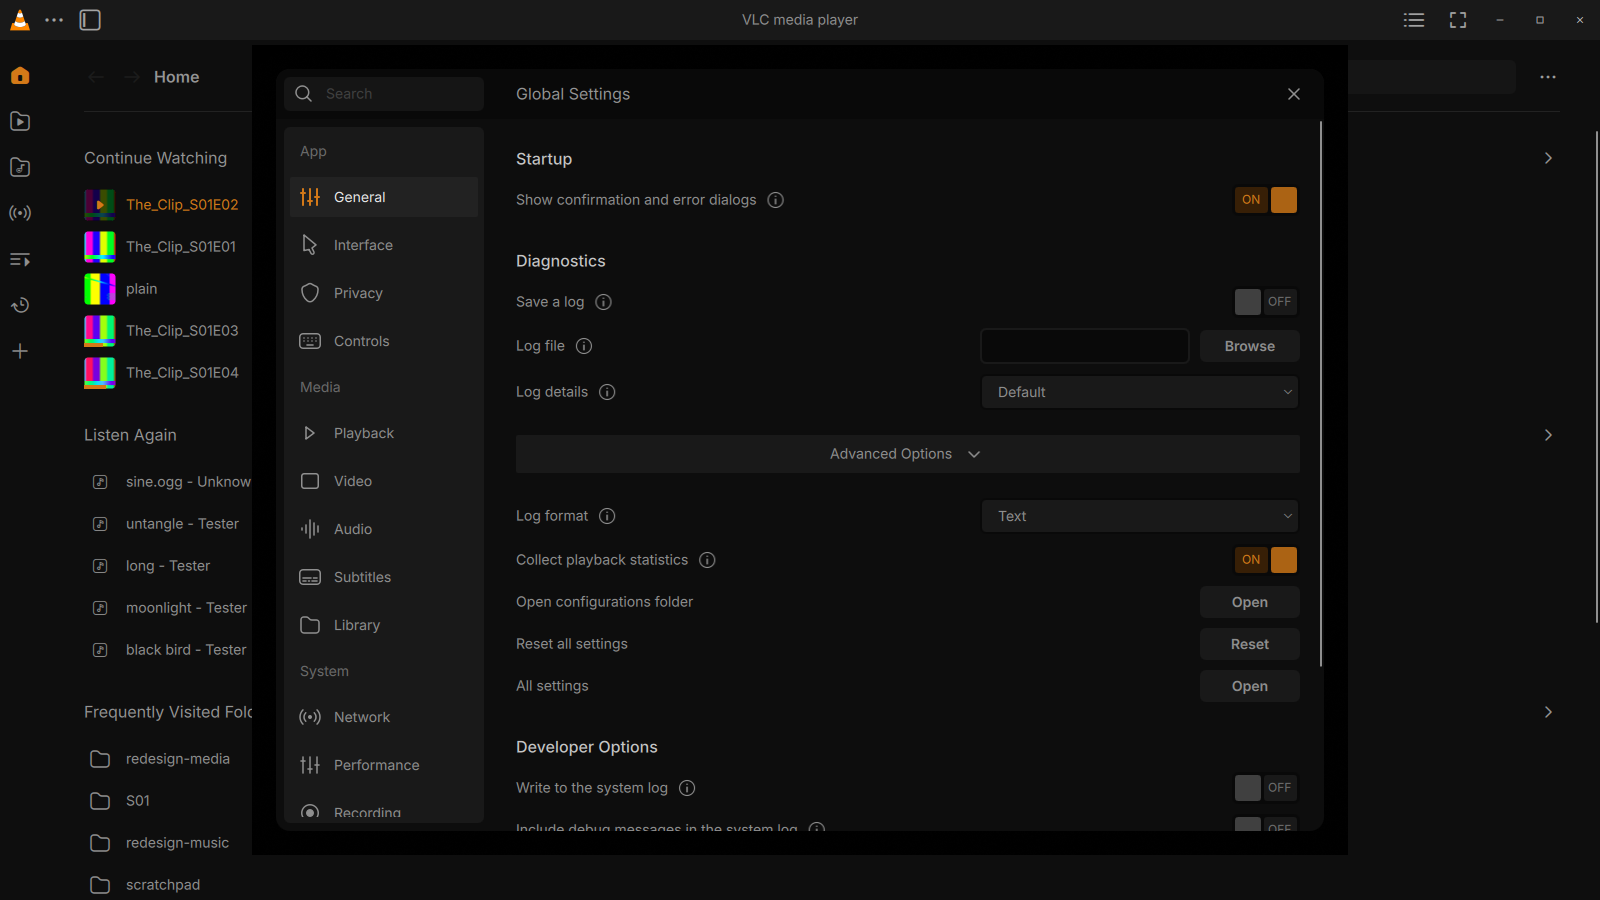
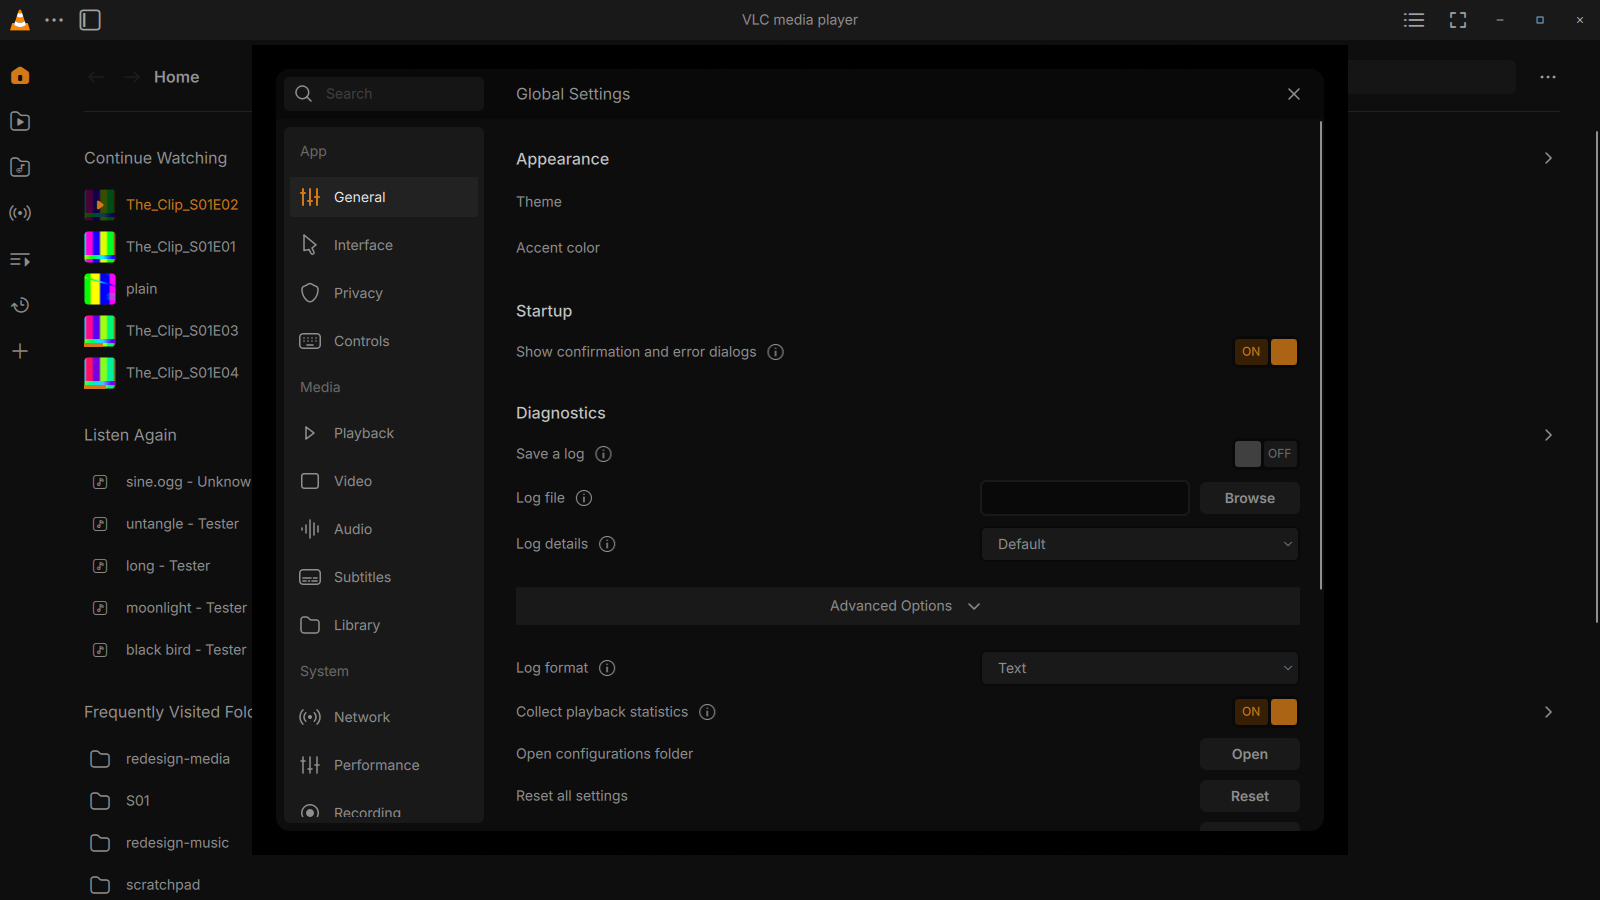
qt: settings rows: pinned custom-row files (Theme/Accent placeholders), data-driven section visibility, one Advanced flag

diff --git a/modules/gui/qt/dialogs/settings/qml/SettingsData.js b/modules/gui/qt/dialogs/settings/qml/SettingsData.js
@@ -21,8 +21,10 @@
 // base name of pixmaps/redesign/settings/<icon>[-active].svg, `group` a key ("App" | "Media" | "System") that the
 // sidebar translates.
 //
-// `sections`: [{ title, adv, rows }]. A section with `adv: true` sits under the Advanced Options bar, after the
-// page's other Advanced rows (with its title, if it has one); every row in it counts as `adv`.
+// `sections`: [{ title, adv, rows }]. Rows carry the Advanced flag: a row is Advanced iff it has `adv: true`
+// (search and the Advanced split read only that). A section's `adv: true` only places it under the Advanced Options
+// bar, as a block (with its title, if any) after the Advanced rows of the page's other sections; every row in such
+// a section must still say `adv: true`.
 //
 // A row (SettingsRowDelegate draws it):
 //   label        the row text
@@ -43,8 +45,10 @@
 //   save         browseFile picks a file to write (a save dialog)
 //   action       button id: openConfig | resetAll | legacyPrefs | editHotkeys | resetHotkeys | clearHistory
 //   buttonText   the button's text
-//   component    a custom row: a file name under dialogs/settings/qml/rows/ (served next to this file); it gets
-//                `row` and `style` and draws the whole row. Nothing is drawn until the file exists.
+//   component    a custom row: the file name (with .qml) of a file in dialogs/settings/qml/rows/, e.g. "ThemeRow.qml".
+//                The VLC.Dialogs module serves its files flat (qrc:/qt/qml/VLC/Dialogs/<name>), so the delegate
+//                loads it by that name. See SettingsRowDelegate for the component's properties. A name with no file
+//                draws nothing and logs nothing.
 //   keywords     extra search text, for custom rows
 var pages = [
     { name: "general", label: qsTr("General"), title: qsTr("Global Settings"), icon: "general", group: "App", sections: [
@@ -67,10 +71,10 @@ var pages = [
             { label: qsTr("All settings"), kind: "button", action: "legacyPrefs", buttonText: qsTr("Open"), adv: true }
         ] },
         { title: qsTr("Developer Options"), adv: true, rows: [
-            { label: qsTr("Write to the system log"), kind: "toggle", option: "syslog" },
-            { label: qsTr("Include debug messages in the system log"), kind: "toggle", option: "syslog-debug" },
-            { label: qsTr("System log identity"), kind: "field", option: "syslog-ident" },
-            { label: qsTr("System log facility"), kind: "dropdown", option: "syslog-facility" }
+            { label: qsTr("Write to the system log"), kind: "toggle", adv: true, option: "syslog" },
+            { label: qsTr("Include debug messages in the system log"), kind: "toggle", adv: true, option: "syslog-debug" },
+            { label: qsTr("System log identity"), kind: "field", adv: true, option: "syslog-ident" },
+            { label: qsTr("System log facility"), kind: "dropdown", adv: true, option: "syslog-facility" }
         ] }
     ] },
     { name: "interface", label: qsTr("Interface"), title: qsTr("Interface Settings"), icon: "interface", group: "App", sections: [
@@ -102,17 +106,17 @@ var pages = [
             { label: qsTr("Show the playlist as a tree"), kind: "toggle", option: "playlist-tree" }
         ] },
         { title: "", adv: true, rows: [
-            { label: qsTr("Window opacity"), kind: "slider", option: "qt-opacity", min: 10, max: 100, step: 10, scale: 0.01,
+            { label: qsTr("Window opacity"), kind: "slider", adv: true, option: "qt-opacity", min: 10, max: 100, step: 10, scale: 0.01,
               ticks: [ qsTr("10%"), qsTr("100%") ] },
-            { label: qsTr("Pause video when window is minimized"), kind: "toggle", option: "qt-pause-minimized" },
-            { label: qsTr("Bring VLC to the front when playback starts"), kind: "dropdown", option: "qt-auto-raise" },
-            { label: qsTr("Show cover art in the window when playing audio"), kind: "toggle", option: "qt-bgcone" },
-            { label: qsTr("Show the file browser inside the open dialog"), kind: "toggle", option: "qt-embedded-open" },
-            { label: qsTr("Allow the app icon to change"), kind: "toggle", option: "qt-icon-change" },
-            { label: qsTr("Fullscreen controls opacity"), kind: "slider", option: "qt-fs-opacity", min: 10, max: 100, step: 10, scale: 0.01,
+            { label: qsTr("Pause video when window is minimized"), kind: "toggle", adv: true, option: "qt-pause-minimized" },
+            { label: qsTr("Bring VLC to the front when playback starts"), kind: "dropdown", adv: true, option: "qt-auto-raise" },
+            { label: qsTr("Show cover art in the window when playing audio"), kind: "toggle", adv: true, option: "qt-bgcone" },
+            { label: qsTr("Show the file browser inside the open dialog"), kind: "toggle", adv: true, option: "qt-embedded-open" },
+            { label: qsTr("Allow the app icon to change"), kind: "toggle", adv: true, option: "qt-icon-change" },
+            { label: qsTr("Fullscreen controls opacity"), kind: "slider", adv: true, option: "qt-fs-opacity", min: 10, max: 100, step: 10, scale: 0.01,
               ticks: [ qsTr("10%"), qsTr("100%") ] },
             // three stops in px from the bottom edge (my call)
-            { label: qsTr("Fullscreen controls sensitivity"), kind: "slider", option: "qt-fs-sensitivity",
+            { label: qsTr("Fullscreen controls sensitivity"), kind: "slider", adv: true, option: "qt-fs-sensitivity",
               choices: [ { value: 30, label: qsTr("Low") }, { value: 90, label: qsTr("Medium") }, { value: 300, label: qsTr("High") } ] }
         ] }
     ] },
@@ -177,3 +181,12 @@ var pages = [
     { name: "recording", label: qsTr("Recording"), title: qsTr("Recording, Casting & Streaming Out"), icon: "recording", group: "System", sections: [] },
     { name: "extensions", label: qsTr("Extensions"), title: qsTr("Add-ons & Scripts"), icon: "extensions", group: "System", sections: [] }
 ]
+
+// Whether a row can show in this build: its option, list and required option all exist. `bridge` is the
+// SettingsBridge singleton (a .pragma library can't see it). A custom row also needs its component file, which
+// only the delegate can tell (its `shown`).
+function rowShown(row, bridge) {
+    return (!row.option || bridge.exists(row.option))
+        && (!row.list || bridge.exists(row.list))
+        && (!row.requires || bridge.exists(row.requires))
+}

diff --git a/modules/gui/qt/dialogs/settings/qml/SettingsWindowPage.qml b/modules/gui/qt/dialogs/settings/qml/SettingsWindowPage.qml
@@ -23,6 +23,8 @@ import VLC.Widgets as Widgets
 import VLC.Player
 import VLC.Dialogs
 
+import "SettingsData.js" as SettingsData
+
 // One settings page from SettingsData.js (not SettingsPage: VLC.Player has one, and PlaybackPanel imports both modules): its sections, then the Advanced Options bar and the Advanced rows (the
 // page's `adv` rows as one untitled block, then its `adv` sections). The instance lives for the session and follows
 // `page`; the bar's state is kept per page.
@@ -35,12 +37,17 @@ Flickable {
     property int _tick: 0
     property var _openByPage: ({})
 
-    // [{title, rows}] for the main part and for the Advanced part
+    // [{title, rows}] for the main part and for the Advanced part. A row is Advanced iff `row.adv`; an `adv` section
+    // is a block under the bar.
     readonly property var _main: page.sections.filter((s) => !s.adv)
         .map((s) => ({ title: s.title, rows: s.rows.filter((r) => !r.adv) }))
     readonly property var _adv: [{ title: "", rows: [].concat(...page.sections.filter((s) => !s.adv)
                                                              .map((s) => s.rows.filter((r) => r.adv))) }]
-        .concat(page.sections.filter((s) => s.adv))
+        .concat(page.sections.filter((s) => s.adv).map((s) => ({ title: s.title, rows: s.rows.filter((r) => r.adv) })))
+    readonly property bool _hasAdv: _adv.some(_anyShown)
+
+    // from the data, not the delegates: right on every page, whatever was instantiated
+    function _anyShown(block) { return block.rows.some((r) => SettingsData.rowShown(r, SettingsBridge)) }
 
     readonly property ColorContext colorContext: ColorContext {
         id: theme
@@ -70,16 +77,8 @@ Flickable {
         id: block
 
         required property var modelData
-        readonly property bool anyShown: {
-            void(rows.count)
-            for (let i = 0; i < rows.count; ++i)
-                if (rows.itemAt(i)?.shown)
-                    return true
-            return false
-        }
-
         width: column.width
-        visible: anyShown
+        visible: root._anyShown(modelData)
 
         Widgets.LabelExt {
             visible: text.length > 0
@@ -120,13 +119,7 @@ Flickable {
             id: bar
 
             width: parent.width
-            visible: {
-                void(advRepeater.count)
-                for (let i = 0; i < advRepeater.count; ++i)
-                    if (advRepeater.itemAt(i)?.anyShown)
-                        return true
-                return false
-            }
+            visible: root._hasAdv
             open: root.advancedOpen
             onClicked: root.advancedOpen = !root.advancedOpen
         }
@@ -137,7 +130,6 @@ Flickable {
             spacing: VLCStyle.dp(20, VLCStyle.scale)
 
             Repeater {
-                id: advRepeater
                 model: root._adv
                 Block { }
             }

diff --git a/modules/gui/qt/dialogs/settings/qml/SettingsRowDelegate.qml b/modules/gui/qt/dialogs/settings/qml/SettingsRowDelegate.qml
@@ -24,6 +24,8 @@ import VLC.Widgets as Widgets
 import VLC.Player
 import VLC.Dialogs
 
+import "SettingsData.js" as SettingsData
+
 // One settings row from SettingsData.js (see the schema there): the label and its info glyph on the left, the
 // control in a 320 px column on the right. Reads its option again whenever SettingsBridge.revision or reloadTick
 // changes; writes on every change (fields on editingFinished: Enter, focus loss, the window closing).
@@ -35,10 +37,7 @@ FocusScope {
     property int reloadTick: 0
 
     readonly property int rev: SettingsBridge.revision + reloadTick
-    readonly property bool shown: (!row.option || SettingsBridge.exists(row.option))
-                                  && (!row.list || SettingsBridge.exists(row.list))
-                                  && (!row.requires || SettingsBridge.exists(row.requires))
-                                  && (row.kind !== "custom" || _custom !== null)
+    readonly property bool shown: SettingsData.rowShown(row, SettingsBridge) && (row.kind !== "custom" || _custom !== null)
     // the option's current value (undefined for rows without one)
     readonly property var value: {
         void(rev)
@@ -69,7 +68,11 @@ FocusScope {
         return !!SettingsBridge.value(row.enabledBy)
     }
 
-    // a missing file only means the custom row isn't written yet: no warning
+    // A custom row (`component: "ThemeRow.qml"`, a file in rows/, served flat next to this file) declares
+    // `required property var row`; optionally `property Item delegate` (set to this delegate: rev, value, style,
+    // choiceList) and `readonly property bool fullRow: true` (it draws the whole row, label included, instead of
+    // the 320 px control column). Its implicitHeight sets the row's. A missing file only means the custom row isn't
+    // written yet: the row hides, with no warning.
     function _component(file) {
         const c = Qt.createComponent(file)
         return c.status === Component.Ready ? c : null

diff --git a/modules/gui/qt/dialogs/settings/qml/rows/AccentRow.qml b/modules/gui/qt/dialogs/settings/qml/rows/AccentRow.qml
@@ -1,0 +1,37 @@
+/*****************************************************************************
+ * Copyright (C) 2026 VLC authors and VideoLAN
+ *
+ * This program is free software; you can redistribute it and/or modify
+ * it under the terms of the GNU General Public License as published by
+ * the Free Software Foundation; either version 2 of the License, or
+ * ( at your option ) any later version.
+ *
+ * This program is distributed in the hope that it will be useful,
+ * but WITHOUT ANY WARRANTY; without even the implied warranty of
+ * MERCHANTABILITY or FITNESS FOR A PARTICULAR PURPOSE. See the
+ * GNU General Public License for more details.
+ *
+ * You should have received a copy of the GNU General Public License
+ * along with this program; if not, write to the Free Software
+ * Foundation, Inc., 51 Franklin Street, Fifth Floor, Boston MA 02110-1301, USA.
+ *****************************************************************************/
+import QtQuick
+
+import VLC.Style
+import VLC.Widgets as Widgets
+
+// Placeholder for General's Accent row: the label only, until Task 6 builds its control.
+Item {
+    required property var row
+    property Item delegate              // the SettingsRowDelegate (set by it): rev, value, style
+    readonly property bool fullRow: true
+
+    implicitHeight: VLCStyle.dp(36, VLCStyle.scale)
+
+    Widgets.LabelExt {
+        anchors.verticalCenter: parent.verticalCenter
+        text: parent.row.label
+        font.pixelSize: VLCStyle.dp(14, VLCStyle.scale)
+        color: parent.delegate ? parent.delegate.style.rowLabel : "transparent"
+    }
+}

diff --git a/modules/gui/qt/dialogs/settings/qml/rows/ThemeRow.qml b/modules/gui/qt/dialogs/settings/qml/rows/ThemeRow.qml
@@ -1,0 +1,37 @@
+/*****************************************************************************
+ * Copyright (C) 2026 VLC authors and VideoLAN
+ *
+ * This program is free software; you can redistribute it and/or modify
+ * it under the terms of the GNU General Public License as published by
+ * the Free Software Foundation; either version 2 of the License, or
+ * ( at your option ) any later version.
+ *
+ * This program is distributed in the hope that it will be useful,
+ * but WITHOUT ANY WARRANTY; without even the implied warranty of
+ * MERCHANTABILITY or FITNESS FOR A PARTICULAR PURPOSE. See the
+ * GNU General Public License for more details.
+ *
+ * You should have received a copy of the GNU General Public License
+ * along with this program; if not, write to the Free Software
+ * Foundation, Inc., 51 Franklin Street, Fifth Floor, Boston MA 02110-1301, USA.
+ *****************************************************************************/
+import QtQuick
+
+import VLC.Style
+import VLC.Widgets as Widgets
+
+// Placeholder for General's Theme row: the label only, until Task 6 builds its control.
+Item {
+    required property var row
+    property Item delegate              // the SettingsRowDelegate (set by it): rev, value, style
+    readonly property bool fullRow: true
+
+    implicitHeight: VLCStyle.dp(36, VLCStyle.scale)
+
+    Widgets.LabelExt {
+        anchors.verticalCenter: parent.verticalCenter
+        text: parent.row.label
+        font.pixelSize: VLCStyle.dp(14, VLCStyle.scale)
+        color: parent.delegate ? parent.delegate.style.rowLabel : "transparent"
+    }
+}

diff --git a/docs/superpowers/plans/2026-10-25-vlc-redesign-settings.md b/docs/superpowers/plans/2026-10-25-vlc-redesign-settings.md
@@ -187,7 +187,7 @@ git commit -m "qt: Figma settings window shell replaces Preferences as Settings"
 ### Task 3: Rows, Advanced Options, and the App pages
 
 **Files:**
-- Create: `dialogs/settings/qml/SettingsData.js` (`.pragma library`), `dialogs/settings/qml/SettingsPage.qml`, `dialogs/settings/qml/SettingsRowDelegate.qml`, `dialogs/settings/qml/AdvancedBar.qml`
+- Create: `dialogs/settings/qml/SettingsData.js` (`.pragma library`), `dialogs/settings/qml/SettingsWindowPage.qml` (not `SettingsPage`: `VLC.Player` has one and `PlaybackPanel` imports both modules), `dialogs/settings/qml/SettingsRowDelegate.qml`, `dialogs/settings/qml/AdvancedBar.qml`
 - Create: `docs/superpowers/scripts/check-settings-options.py`
 - Modify: `SettingsWindow.qml` (content), `player/qml/settings/*.qml` (only added properties, such as a label colour), build lists
 
@@ -209,7 +209,7 @@ git commit -m "qt: Figma settings window shell replaces Preferences as Settings"
   - `required property var row`;
   - `readonly property bool shown`: false when `row.option && !SettingsBridge.exists(row.option)`, or for a `list` row when `!SettingsBridge.exists(row.list)`;
   - it re-reads its value when `SettingsBridge.revision` changes.
-- Produces `SettingsPage.qml`: `required property var page`, `property bool advancedOpen`. A `Flickable` of sections, then the Advanced bar (only if the page has adv rows that are shown), then the adv rows. It hides a section whose rows are all hidden. `function reload()` re-reads every row; it is called when the page is shown.
+- Produces `SettingsWindowPage.qml`: `required property var page`, `property bool advancedOpen`. A `Flickable` of sections, then the Advanced bar (only if the page has adv rows that are shown), then the adv rows. It hides a section whose rows are all hidden. `function reload()` re-reads every row; it is called when the page is shown.
 - Produces `check-settings-options.py SettingsData.js`: extracts every `option:`/`list:` value and checks each against the `add_*("name"` set from `src/` and `modules/` (prefix macros: `SOUT_CFG_PREFIX "sout-chromecast-"`, `"sout-x264-"`). It exits 1 and lists unknown names. The allow-list for platform-only options lives in the script.
 
 - [ ] **Step 1: Write the option check script first** and run it on a `SettingsData.js` holding only General's rows, with one deliberate typo (`"file-loging"`).
@@ -233,8 +233,8 @@ git commit -m "qt: Figma settings window shell replaces Preferences as Settings"
   - Save the shots to `docs/superpowers/figma/7/after-<page>.png`.
 
 - [ ] **Step 6: Behaviour check (Review Focus 1, 2).**
-  - Toggle Interface ▸ "Keep window above other windows", type a new Never-remember filter on Privacy without pressing Enter, then close with ×.
-  - `grep -E '^(video-on-top|qt-recentplay-filter)=' build/redesign-profile/config/vlc/vlcrc` shows both new values.
+  - Toggle Interface ▸ "Keep window above other windows", type a new Last.fm username on Privacy without pressing Enter, then close with ×. (`qt-recentplay-filter` is obsolete in VLC 4, so its row is not built.)
+  - `grep -E '^(video-on-top|lastfm-username)=' build/redesign-profile/config/vlc/vlcrc` shows both new values.
   - The log grep is clean, including no warning from a hidden row.
 
 - [ ] **Step 7: Commit**
@@ -330,7 +330,7 @@ function test_presetFor() {
 ### Task 6: Extensions page, theme and accent colour
 
 **Files:**
-- Create: `rows/ExtensionsRows.qml`, `rows/ThemeRow.qml`, `rows/AccentRow.qml`
+- Create: `rows/ExtensionsRows.qml`. Fill in: `rows/ThemeRow.qml`, `rows/AccentRow.qml` (Task 3 placeholders, label only, `fullRow: true`)
 - Modify: `settings_bridge.hpp/.cpp` (extensions), `style/systempalettethemeprovider.cpp` (dark default accent), the eight accent-hardcoding files listed in the spec, `SettingsData.js`
 
 **Interfaces:**
@@ -364,7 +364,7 @@ function test_presetFor() {
 ### Task 7: Search
 
 **Files:**
-- Modify: `SettingsData.js` (`search(pages, text)`), `SettingsWindow.qml`, `SettingsPage.qml` (a results mode), `tests/tst_SettingsData.qml`
+- Modify: `SettingsData.js` (`search(pages, text)`), `SettingsWindow.qml`, `SettingsWindowPage.qml` (a results mode), `tests/tst_SettingsData.qml`
 
 **Interfaces:**
 - Produces `function search(pages, text) → [{page: index, title: pageTitle, rows: [row…]}]`.

diff --git a/docs/superpowers/specs/2026-10-25-vlc-redesign-settings-design.md b/docs/superpowers/specs/2026-10-25-vlc-redesign-settings-design.md
@@ -164,7 +164,7 @@ Rows are listed in Figma order. **Adv** = under Advanced Options. "—" = not bu
 |---|---|---|---|
 | Save recently played items | toggle | `save-recentplay` | |
 | Remember the playback position | toggle | `restore-playback-states` | *(my call: the Playback page's "Continue where you left off" owns `restore-playback-pos`)* |
-| Never remember items matching | field | `qt-recentplay-filter` | |
+| Never remember items matching | — | — | `qt-recentplay-filter` is obsolete in VLC 4 (`add_obsolete_string`). Not built |
 | Clear history now | button Clear | `MLRecentMediaModel::clearHistory()` (the media library's history) | Disabled without a media library |
 | Fetch titles and cover art from the internet | toggle | `metadata-network-access` | Also on Library; same option |
 | Submit played tracks to last.fm | toggle | `audioscrobbler` in `extraintf` | |
